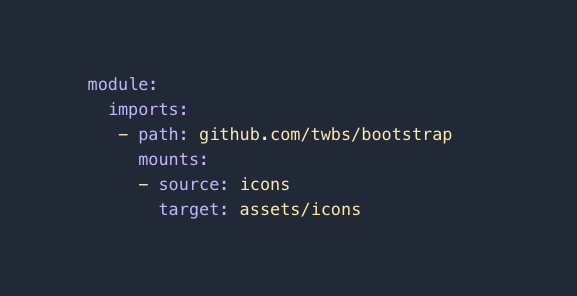
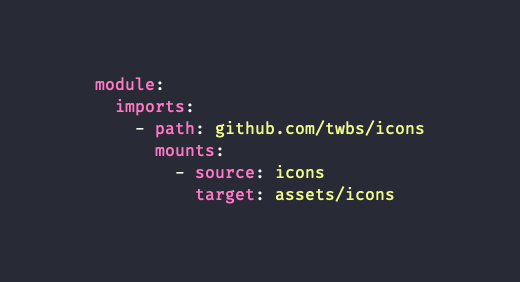
Typo in the article (#177)
* Typo in the article

I don't see why it's not the same repository here as in the example above, i.e. `github.com/twbs/icons`.

Thank you for the article and your work.

* fixup! Typo in the article

Changed region(s): [[0.1538, 0.2553, 0.8308, 0.5674], [0.2769, 0.5957, 0.7692, 0.7376]]

diff --git a/content/en/article/hugo-modules.md b/content/en/article/hugo-modules.md
@@ -2,7 +2,7 @@
 draft: false
 authors:
   - persons/regis-philibert.md
-lastmod: 2020-08-30T19:32:27.000Z
+lastmod: 2021-07-07T08:04:44.000Z
 featured: /uploads/hugo-modules-featured.png
 date: 2020-08-30T19:32:27.000Z
 twitter_description: |-
@@ -88,7 +88,7 @@ With the `mounts` key, attached to our Bootstrap import, we'll give Hugo more di
 ```yaml
 module:
   imports:
-   - path: github.com/twbs/bootstrap
+   - path: github.com/twbs/icons
      mounts:
      - source: icons
        target: assets/icons
@@ -145,19 +145,19 @@ What if the repo is updated? The default behaviour of Hugo Module is, on the fir
 If `github.com/twbs/icons` releases `v1.1.0` and you want that new release you can:
 
 ```bash
-hugo mod get -u github.com/twbs/bootstrap
+hugo mod get -u github.com/twbs/icons
 ```
 This should update your `go.mod` file with the latest release.
 
 Now if you want a specific release rather than the latest, (we'll use another repo for that example):
 
 ```bash
-hugo mod get github.com/twbs/bootstrap@v3.4.0
+hugo mod get github.com/twbs/icons@v1.4.0
 ```
 
 If you want a specific commit, you'll need to @ its long hash like so
 ```bash
-hugo mod get github.com/twbs/bootstrap@394812b61d4dc80bfb2e090de925ae0dfc4cc29b
+hugo mod get github.com/twbs/icons@2396edfbfeda7a3f9c5d98f67e3540f593b28e1e
 ```
 
 
@@ -199,7 +199,7 @@ Our imports and mounts settings will be very similar to what we did before. We'l
 # config.yaml
 module:
   imports:
-   - path: github.com/twbs/bootstrap
+   - path: github.com/twbs/icons
      mounts:
 	   - source: icons
 	     target: assets/hugo-icons/icons
